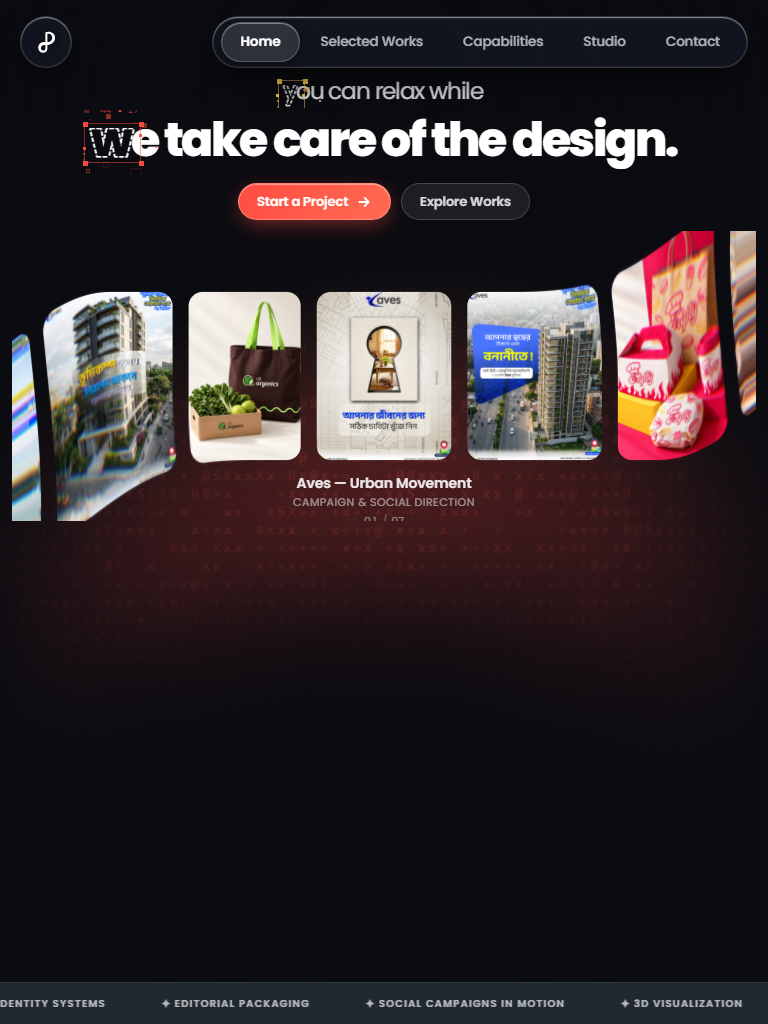
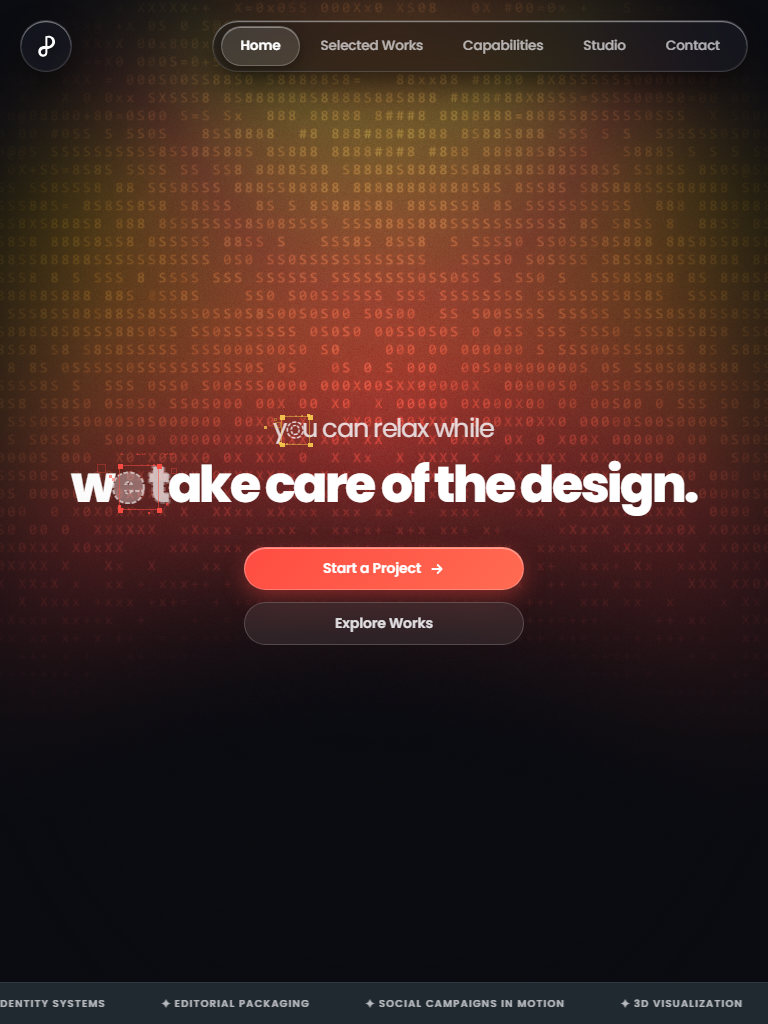
feat(hero): remove FlexCarousel and align title and CTA buttons in middle vertically and horizontally

diff --git a/src/components/HeroSection.css b/src/components/HeroSection.css
@@ -5,7 +5,7 @@
    Font: Poppins exclusively.
    Interactive GradientASCII backdrop with TechText typography.
    Glassy split navigation with selected button boxed exclusively.
-   Re-aligned title stack, high-converting CTA, and FlexCarousel 3D showcase.
+   Title and CTA buttons aligned strictly in the middle vertically and horizontally.
    ========================================================================== */
 
 .hero-section {
@@ -37,10 +37,10 @@
   position: absolute;
   inset: 0;
   background: radial-gradient(
-    ellipse at 50% 25%,
-    rgba(11, 12, 17, 0.04) 0%,
-    rgba(11, 12, 17, 0.5) 50%,
-    #0b0c11 82%
+    ellipse at 50% 45%,
+    rgba(11, 12, 17, 0.05) 0%,
+    rgba(11, 12, 17, 0.55) 55%,
+    #0b0c11 88%
   );
   pointer-events: none;
   z-index: 1;
@@ -56,7 +56,7 @@
   position: relative;
   z-index: 50;
   width: 100%;
-  padding: 1.25rem 2rem 0.4rem;
+  padding: 1.5rem 2rem 0.5rem;
   box-sizing: border-box;
   display: flex;
   justify-content: center;
@@ -175,7 +175,7 @@
 }
 
 /* ==========================================================================
-   CENTERED HERO STAGE (RE-ALIGNED TITLE + CTA + FLEXCAROUSEL)
+   CENTERED HERO STAGE (TITLE + CTA IN THE MIDDLE VERTICALLY & HORIZONTALLY)
    ========================================================================== */
 .hero-container--centered {
   position: relative;
@@ -183,15 +183,15 @@
   width: 100%;
   max-width: 1440px;
   margin: 0 auto;
-  padding: 0.5rem 1.5rem 0.5rem;
+  padding: 2rem 1.5rem;
   box-sizing: border-box;
   flex: 1;
   display: flex;
   flex-direction: column;
   align-items: center;
-  justify-content: flex-start;
+  justify-content: center;
   text-align: center;
-  gap: 0.5rem;
+  gap: 2.25rem;
 }
 
 /* Title stack precisely re-aligned center */
@@ -205,7 +205,7 @@
   justify-content: center;
   position: relative;
   z-index: 10;
-  gap: 0.1rem;
+  gap: 0.4rem;
 }
 
 .hero-tech-line {
@@ -218,12 +218,12 @@
 
 /* Small line with Poppins regular */
 .hero-tech-line--small {
-  height: clamp(32px, 4.8vh, 46px);
+  height: clamp(38px, 6vh, 52px);
 }
 
 /* Large monumental headline line */
 .hero-tech-line--large {
-  height: clamp(65px, 11vh, 110px);
+  height: clamp(80px, 14vh, 120px);
 }
 
 /* ==========================================================================
@@ -233,10 +233,10 @@
   display: inline-flex;
   align-items: center;
   justify-content: center;
-  gap: 14px;
+  gap: 16px;
   position: relative;
   z-index: 15;
-  margin: 0.15rem 0 0.35rem;
+  margin: 0;
 }
 
 .hero-cta-btn {
@@ -245,11 +245,11 @@
   justify-content: center;
   gap: 8px;
   font-family: 'Poppins', sans-serif;
-  font-size: 14px;
+  font-size: 14.5px;
   font-weight: 600;
   letter-spacing: -0.01em;
   text-decoration: none;
-  padding: 9px 24px;
+  padding: 11px 28px;
   border-radius: 999px;
   transition: transform 0.25s cubic-bezier(0.2, 0.9, 0.3, 1.2), box-shadow 0.25s ease, background 0.25s ease, border-color 0.25s ease;
   cursor: pointer;
@@ -262,14 +262,14 @@
   color: #ffffff;
   border: 1px solid rgba(255, 255, 255, 0.25);
   box-shadow:
-    0 6px 20px -2px rgba(255, 76, 66, 0.45),
+    0 8px 24px -2px rgba(255, 76, 66, 0.45),
     inset 0 1px 0 rgba(255, 255, 255, 0.4);
 }
 
 .hero-cta-btn--primary:hover {
   transform: translateY(-2px) scale(1.02);
   box-shadow:
-    0 10px 28px -2px rgba(255, 76, 66, 0.65),
+    0 12px 32px -2px rgba(255, 76, 66, 0.65),
     inset 0 1.2px 0 rgba(255, 255, 255, 0.55);
 }
 
@@ -287,7 +287,7 @@
   -webkit-backdrop-filter: blur(14px);
   backdrop-filter: blur(14px);
   border: 1px solid rgba(255, 255, 255, 0.18);
-  color: rgba(244, 244, 247, 0.88);
+  color: rgba(244, 244, 247, 0.9);
 }
 
 .hero-cta-btn--secondary:hover {
@@ -295,20 +295,7 @@
   border-color: rgba(255, 255, 255, 0.32);
   color: #ffffff;
   transform: translateY(-2px);
-  box-shadow: 0 6px 18px rgba(0, 0, 0, 0.4);
-}
-
-/* ==========================================================================
-   FLEXCAROUSEL SECTION (FLUID PERSPECTIVE ROW)
-   ========================================================================== */
-.hero-carousel-wrapper {
-  position: relative;
-  z-index: 12;
-  width: 100%;
-  max-width: 1400px;
-  height: 400px;
-  margin: 0 auto;
-  overflow: visible;
+  box-shadow: 0 8px 22px rgba(0, 0, 0, 0.4);
 }
 
 /* ==========================================================================
@@ -318,7 +305,7 @@
   position: relative;
   z-index: 30;
   width: 100%;
-  height: 46px;
+  height: 48px;
   background: #202930;
   border-top: 1px solid rgba(255, 255, 255, 0.08);
   overflow: hidden;
@@ -359,48 +346,45 @@
    ========================================================================== */
 @media (max-width: 1024px) {
   .hero-container--centered {
-    padding: 0.5rem 1rem 0.5rem;
-    gap: 0.5rem;
-  }
-  .hero-carousel-wrapper {
-    height: 350px;
+    padding: 1.5rem 1rem;
+    gap: 1.75rem;
   }
   .hero-tech-line--small {
-    height: 38px;
+    height: 42px;
   }
   .hero-tech-line--large {
-    height: 85px;
+    height: 90px;
   }
 }
 
 @media (max-width: 768px) {
   .hero-header {
-    padding: 1rem 1.25rem 0.25rem;
+    padding: 1.25rem 1.25rem 0.25rem;
   }
   .hero-header .pill-nav[data-layout='split'] {
     width: 100%;
     justify-content: space-between;
   }
   .hero-container--centered {
-    padding: 0.4rem 0.75rem 0.5rem;
-    gap: 0.4rem;
-  }
-  .hero-carousel-wrapper {
-    height: 290px;
+    padding: 1.25rem 0.75rem;
+    gap: 1.5rem;
   }
   .hero-tech-line--small {
-    height: 30px;
+    height: 34px;
   }
   .hero-tech-line--large {
-    height: 65px;
+    height: 70px;
   }
   .hero-cta-group {
-    gap: 10px;
-    margin: 0.1rem 0 0.25rem;
+    flex-direction: column;
+    width: 100%;
+    max-width: 280px;
+    gap: 12px;
   }
   .hero-cta-btn {
-    font-size: 13px;
-    padding: 8px 18px;
+    width: 100%;
+    font-size: 14px;
+    padding: 10px 20px;
   }
   .hero-bottom-ticker {
     height: 42px;

diff --git a/src/components/HeroSection.jsx b/src/components/HeroSection.jsx
@@ -2,17 +2,7 @@ import React, { useState, useEffect } from 'react';
 import PillNav from './PillNav';
 import TechText from './TechText';
 import GradientASCII from './GradientASCII';
-import FlexCarousel from './FlexCarousel';
 import './HeroSection.css';
-
-// Direct 7 asset imports specified by user for FlexCarousel
-import item1 from '../assets/carousel/carousel-1-aves-1.png';
-import item2 from '../assets/carousel/carousel-2-aves-2.png';
-import item3 from '../assets/carousel/carousel-3-tripty.png';
-import item4 from '../assets/carousel/carousel-4-norea.png';
-import item5 from '../assets/carousel/carousel-5-aves-3.png';
-import item6 from '../assets/carousel/carousel-6-aves-4.png';
-import item7 from '../assets/carousel/carousel-7-all-organics.png';
 
 const NAV_ITEMS = [
   { label: 'Home', href: '#home' },
@@ -20,51 +10,6 @@ const NAV_ITEMS = [
   { label: 'Capabilities', href: '#capabilities' },
   { label: 'Studio', href: '#studio' },
   { label: 'Contact', href: '#contact' }
-];
-
-const CAROUSEL_ITEMS = [
-  {
-    src: item1,
-    alt: 'Aves Streetwear Campaign Artboard 1',
-    title: 'Aves — Urban Movement',
-    subtitle: 'Campaign & Social Direction'
-  },
-  {
-    src: item2,
-    alt: 'Aves Editorial Packaging Artboard 2',
-    title: 'Aves — Editorial Motion',
-    subtitle: 'Brand System'
-  },
-  {
-    src: item3,
-    alt: 'Tripty Heritage Tea Brand Identity',
-    title: 'Tripty — Organic Teas',
-    subtitle: 'Brand Identity & Packaging'
-  },
-  {
-    src: item4,
-    alt: 'Norea Architectural Construction Identity',
-    title: 'Norea — Structural Elegance',
-    subtitle: 'Corporate Identity Program'
-  },
-  {
-    src: item5,
-    alt: 'Aves Lifestyle Artboard 3',
-    title: 'Aves — Monogram Series',
-    subtitle: 'Digital Art Direction'
-  },
-  {
-    src: item6,
-    alt: 'Aves Lookbook Artboard 4',
-    title: 'Aves — Studio Lookbook',
-    subtitle: 'Social Identity'
-  },
-  {
-    src: item7,
-    alt: 'All Organics Sustainable Identity',
-    title: 'All Organics — Pure Botanicals',
-    subtitle: 'Packaging & Art Direction'
-  }
 ];
 
 export default function HeroSection({ onOpenProject }) {
@@ -92,12 +37,6 @@ export default function HeroSection({ onOpenProject }) {
     }
   };
 
-  const handleSelectCard = (index, item) => {
-    if (typeof onOpenProject === 'function') {
-      onOpenProject(index, item);
-    }
-  };
-
   return (
     <section id="home" className="hero-section" aria-label="Design Daily Studio Hero">
       {/* Interactive Gradient ASCII Background */}
@@ -118,7 +57,7 @@ export default function HeroSection({ onOpenProject }) {
         <div className="hero-ascii-vignette" />
       </div>
 
-      {/* Top Header — Glassy Split PillNav (Circular White Logo + Navigation Pill, Boxed ONLY on Selected Item) */}
+      {/* Top Header — Glassy Split PillNav (Circular White Logo + Navigation Pill) */}
       <header className="hero-header">
         <div className="hero-nav-wrapper">
           <PillNav
@@ -143,9 +82,9 @@ export default function HeroSection({ onOpenProject }) {
         </div>
       </header>
 
-      {/* Hero Stage — Re-aligned Title, Magnetic CTA, and React Bits FlexCarousel */}
+      {/* Hero Stage — Centered Vertically & Horizontally (Title + CTA Buttons) */}
       <div className="hero-container hero-container--centered">
-        {/* Title Stack: Precisely Re-aligned Center with Clear Typographic Hierarchy */}
+        {/* Title Stack: Precisely Re-aligned Center with Typographic Hierarchy */}
         <div className="hero-tech-text-group">
           {/* Line 1: Small display size, Poppins regular */}
           <div className="hero-tech-line hero-tech-line--small">
@@ -153,7 +92,7 @@ export default function HeroSection({ onOpenProject }) {
               text="you can relax while"
               fontFamily="'Poppins', sans-serif"
               fontWeight={400}
-              fontSize={isMobile ? 18 : isTablet ? 30 : 40}
+              fontSize={isMobile ? 20 : isTablet ? 32 : 44}
               color="rgba(244, 244, 247, 0.85)"
               accentColor="#f4c64e"
               align="center"
@@ -174,7 +113,7 @@ export default function HeroSection({ onOpenProject }) {
               text="we take care of the design."
               fontFamily="'Poppins', sans-serif"
               fontWeight={800}
-              fontSize={isMobile ? 24 : isTablet ? 60 : 88}
+              fontSize={isMobile ? 26 : isTablet ? 64 : 96}
               color="#ffffff"
               accentColor="#ff4c42"
               align="center"
@@ -214,23 +153,6 @@ export default function HeroSection({ onOpenProject }) {
           <a href="#works" className="hero-cta-btn hero-cta-btn--secondary">
             <span>Explore Works</span>
           </a>
-        </div>
-
-        {/* FlexCarousel: Fluid Lens 3D Perspective Carousel */}
-        <div className="hero-carousel-wrapper">
-          <FlexCarousel
-            items={CAROUSEL_ITEMS}
-            preset="liquid"
-            intro="none"
-            cardHeight={isMobile ? 0.65 : 0.58}
-            gap={isMobile ? 10 : 16}
-            radius={14}
-            squeeze={0.2}
-            focusOnClick={true}
-            captions={true}
-            captureWheel={true}
-            onSelect={handleSelectCard}
-          />
         </div>
       </div>
 
